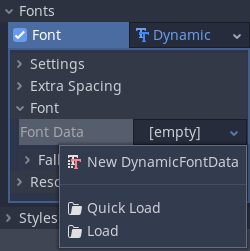
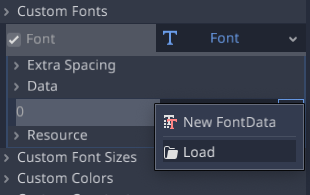
Revert "update your first 2D game font information"

diff --git a/getting_started/first_2d_game/06.heads_up_display.rst b/getting_started/first_2d_game/06.heads_up_display.rst
@@ -36,22 +36,21 @@ Inspector. The default font for ``Control`` nodes is small and doesn't scale
 well. There is a font file included in the game assets called
 "Xolonium-Regular.ttf". To use this font, do the following:
 
-1. Under **Theme overrides > Fonts** click on the empty box and select "New DynamicFont"
+1. Under "Custom Fonts", choose "New Font"
 
 .. image:: img/custom_font1.png
 
-2. Click on the "DynamicFont" you added, and under **Font > FontData**,
+2. Click on the "Font" you added, and under "Font/Data/0",
    choose "Load" and select the "Xolonium-Regular.ttf" file.
 
 .. image:: img/custom_font2.png
 
-Set the "Size" property under ``Settings``, ``64`` works well.
-
-.. image:: img/custom_font3.png
-
 Once you've done this on the ``ScoreLabel``, you can click the down arrow next
 to the Font property and choose "Copy", then "Paste" it in the same place
 on the other two Control nodes.
+Set "Custom Font Size" property of the ``ScoreLabel``. A setting of ``64`` works well.
+
+.. image:: img/custom_font3.png
 
 .. note:: **Anchors and Margins:** ``Control`` nodes have a position and size,
           but they also have anchors and margins. Anchors define the origin -
